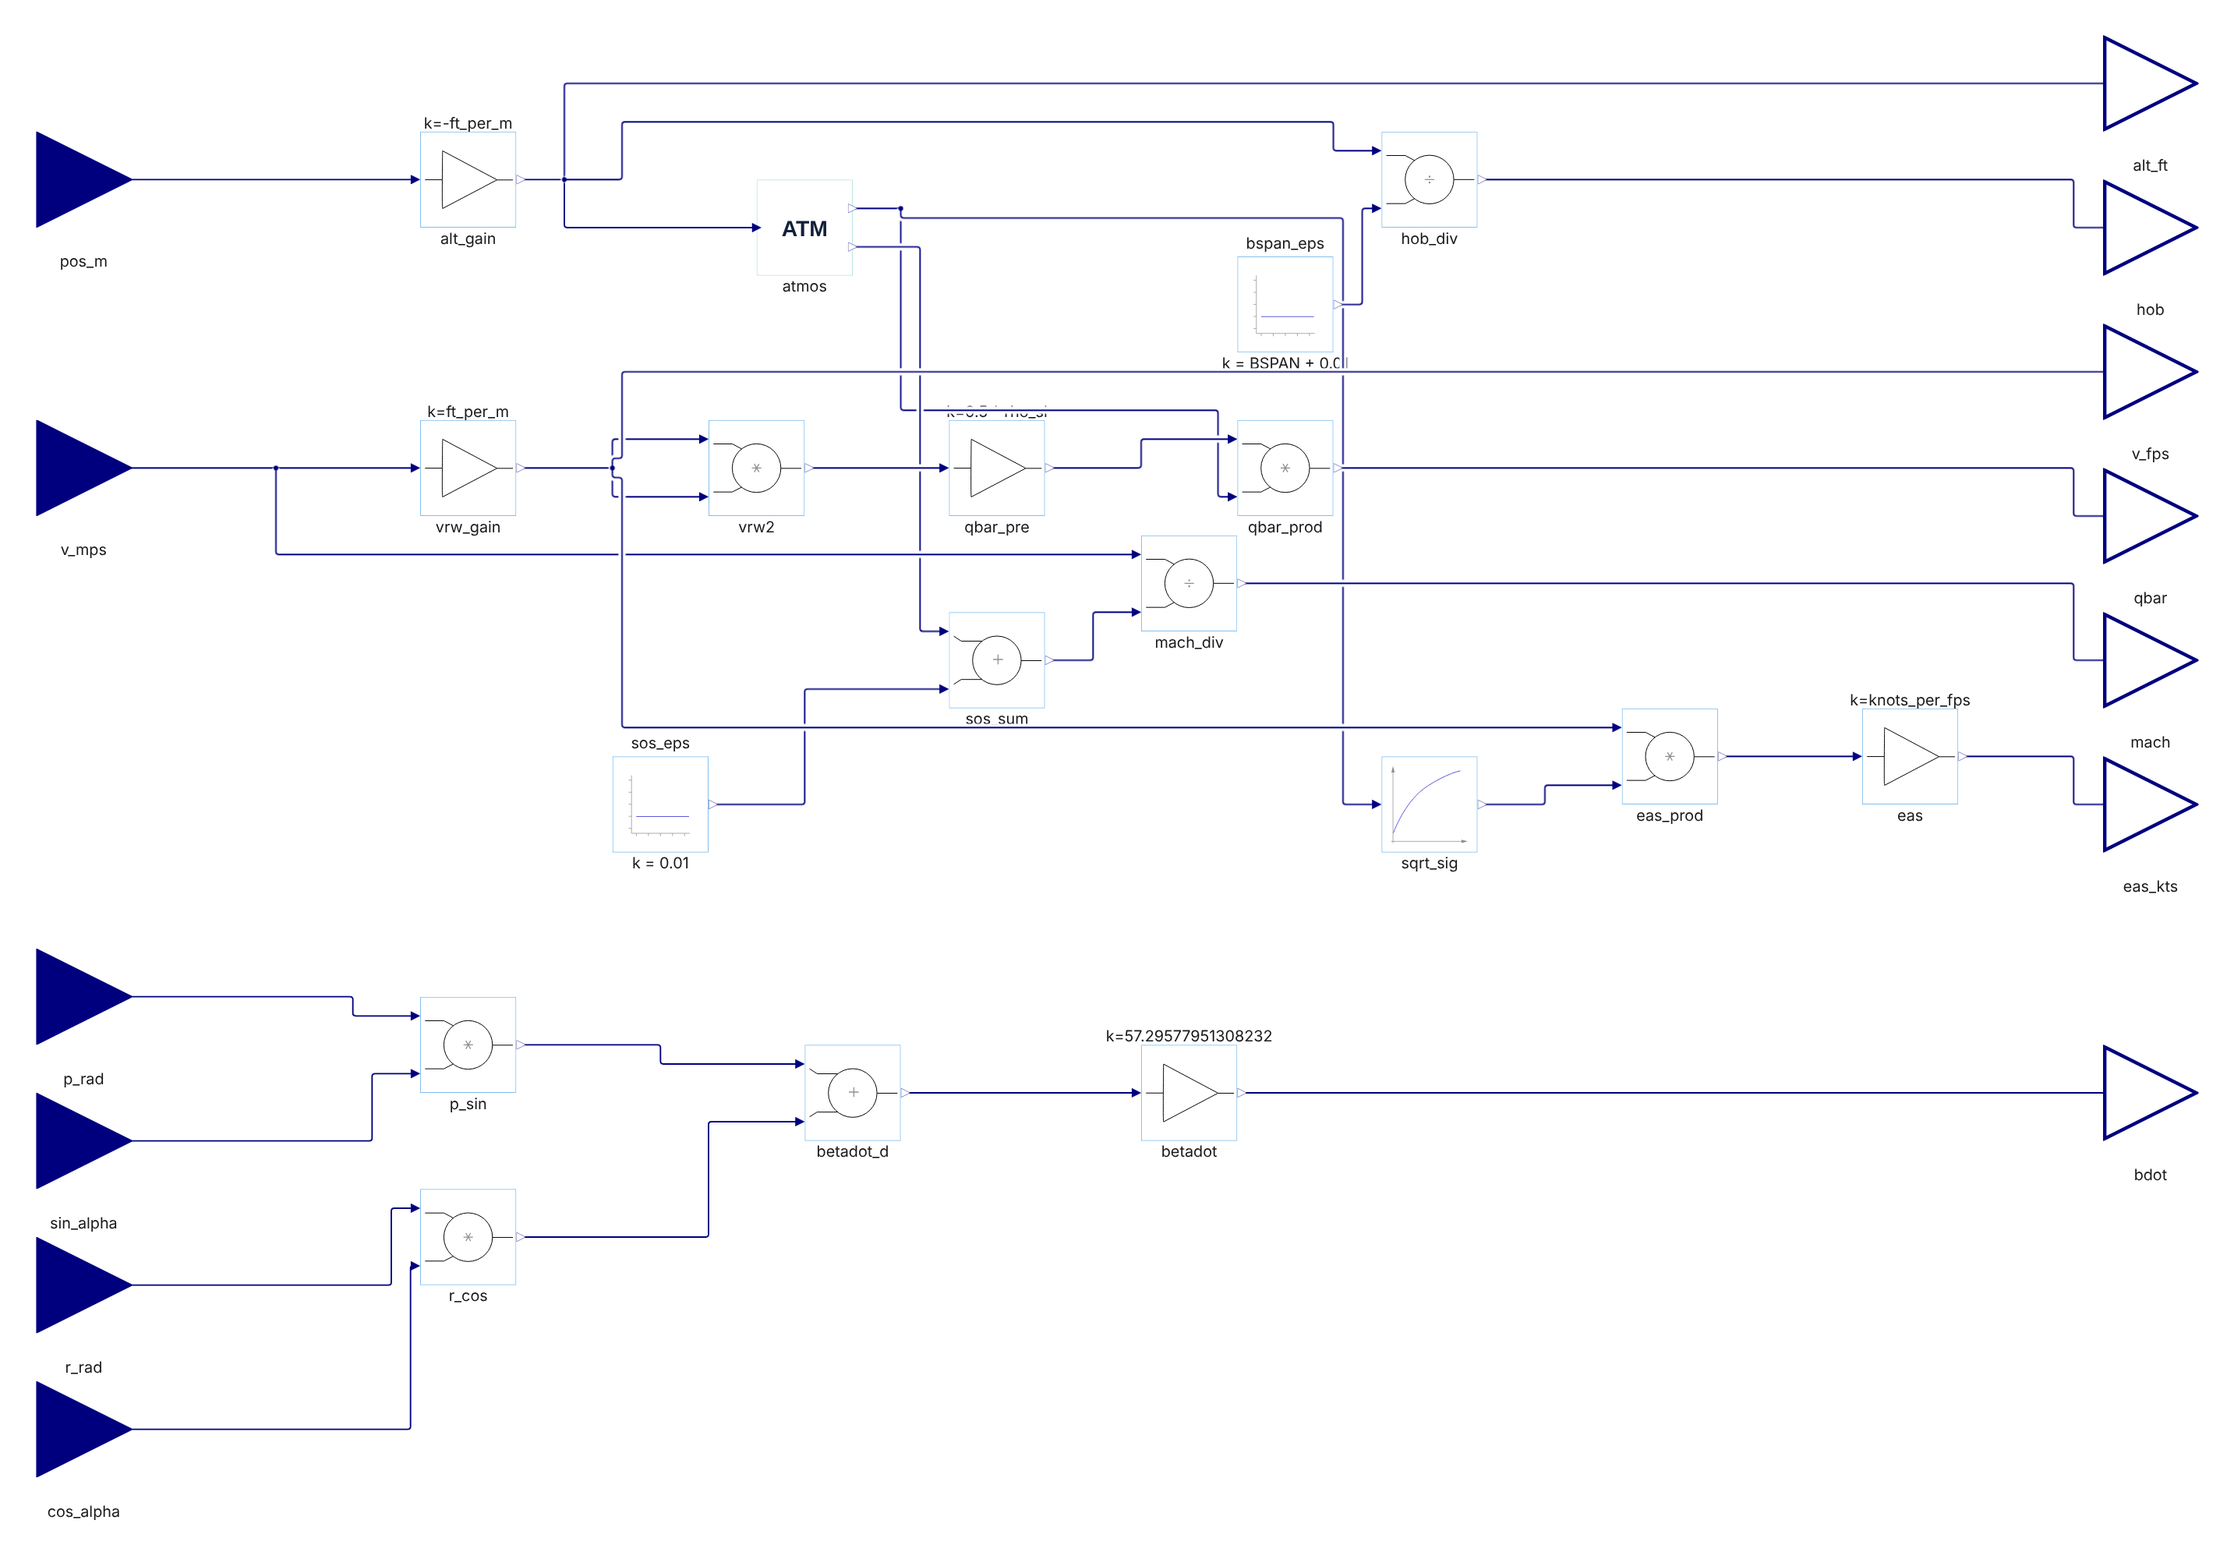
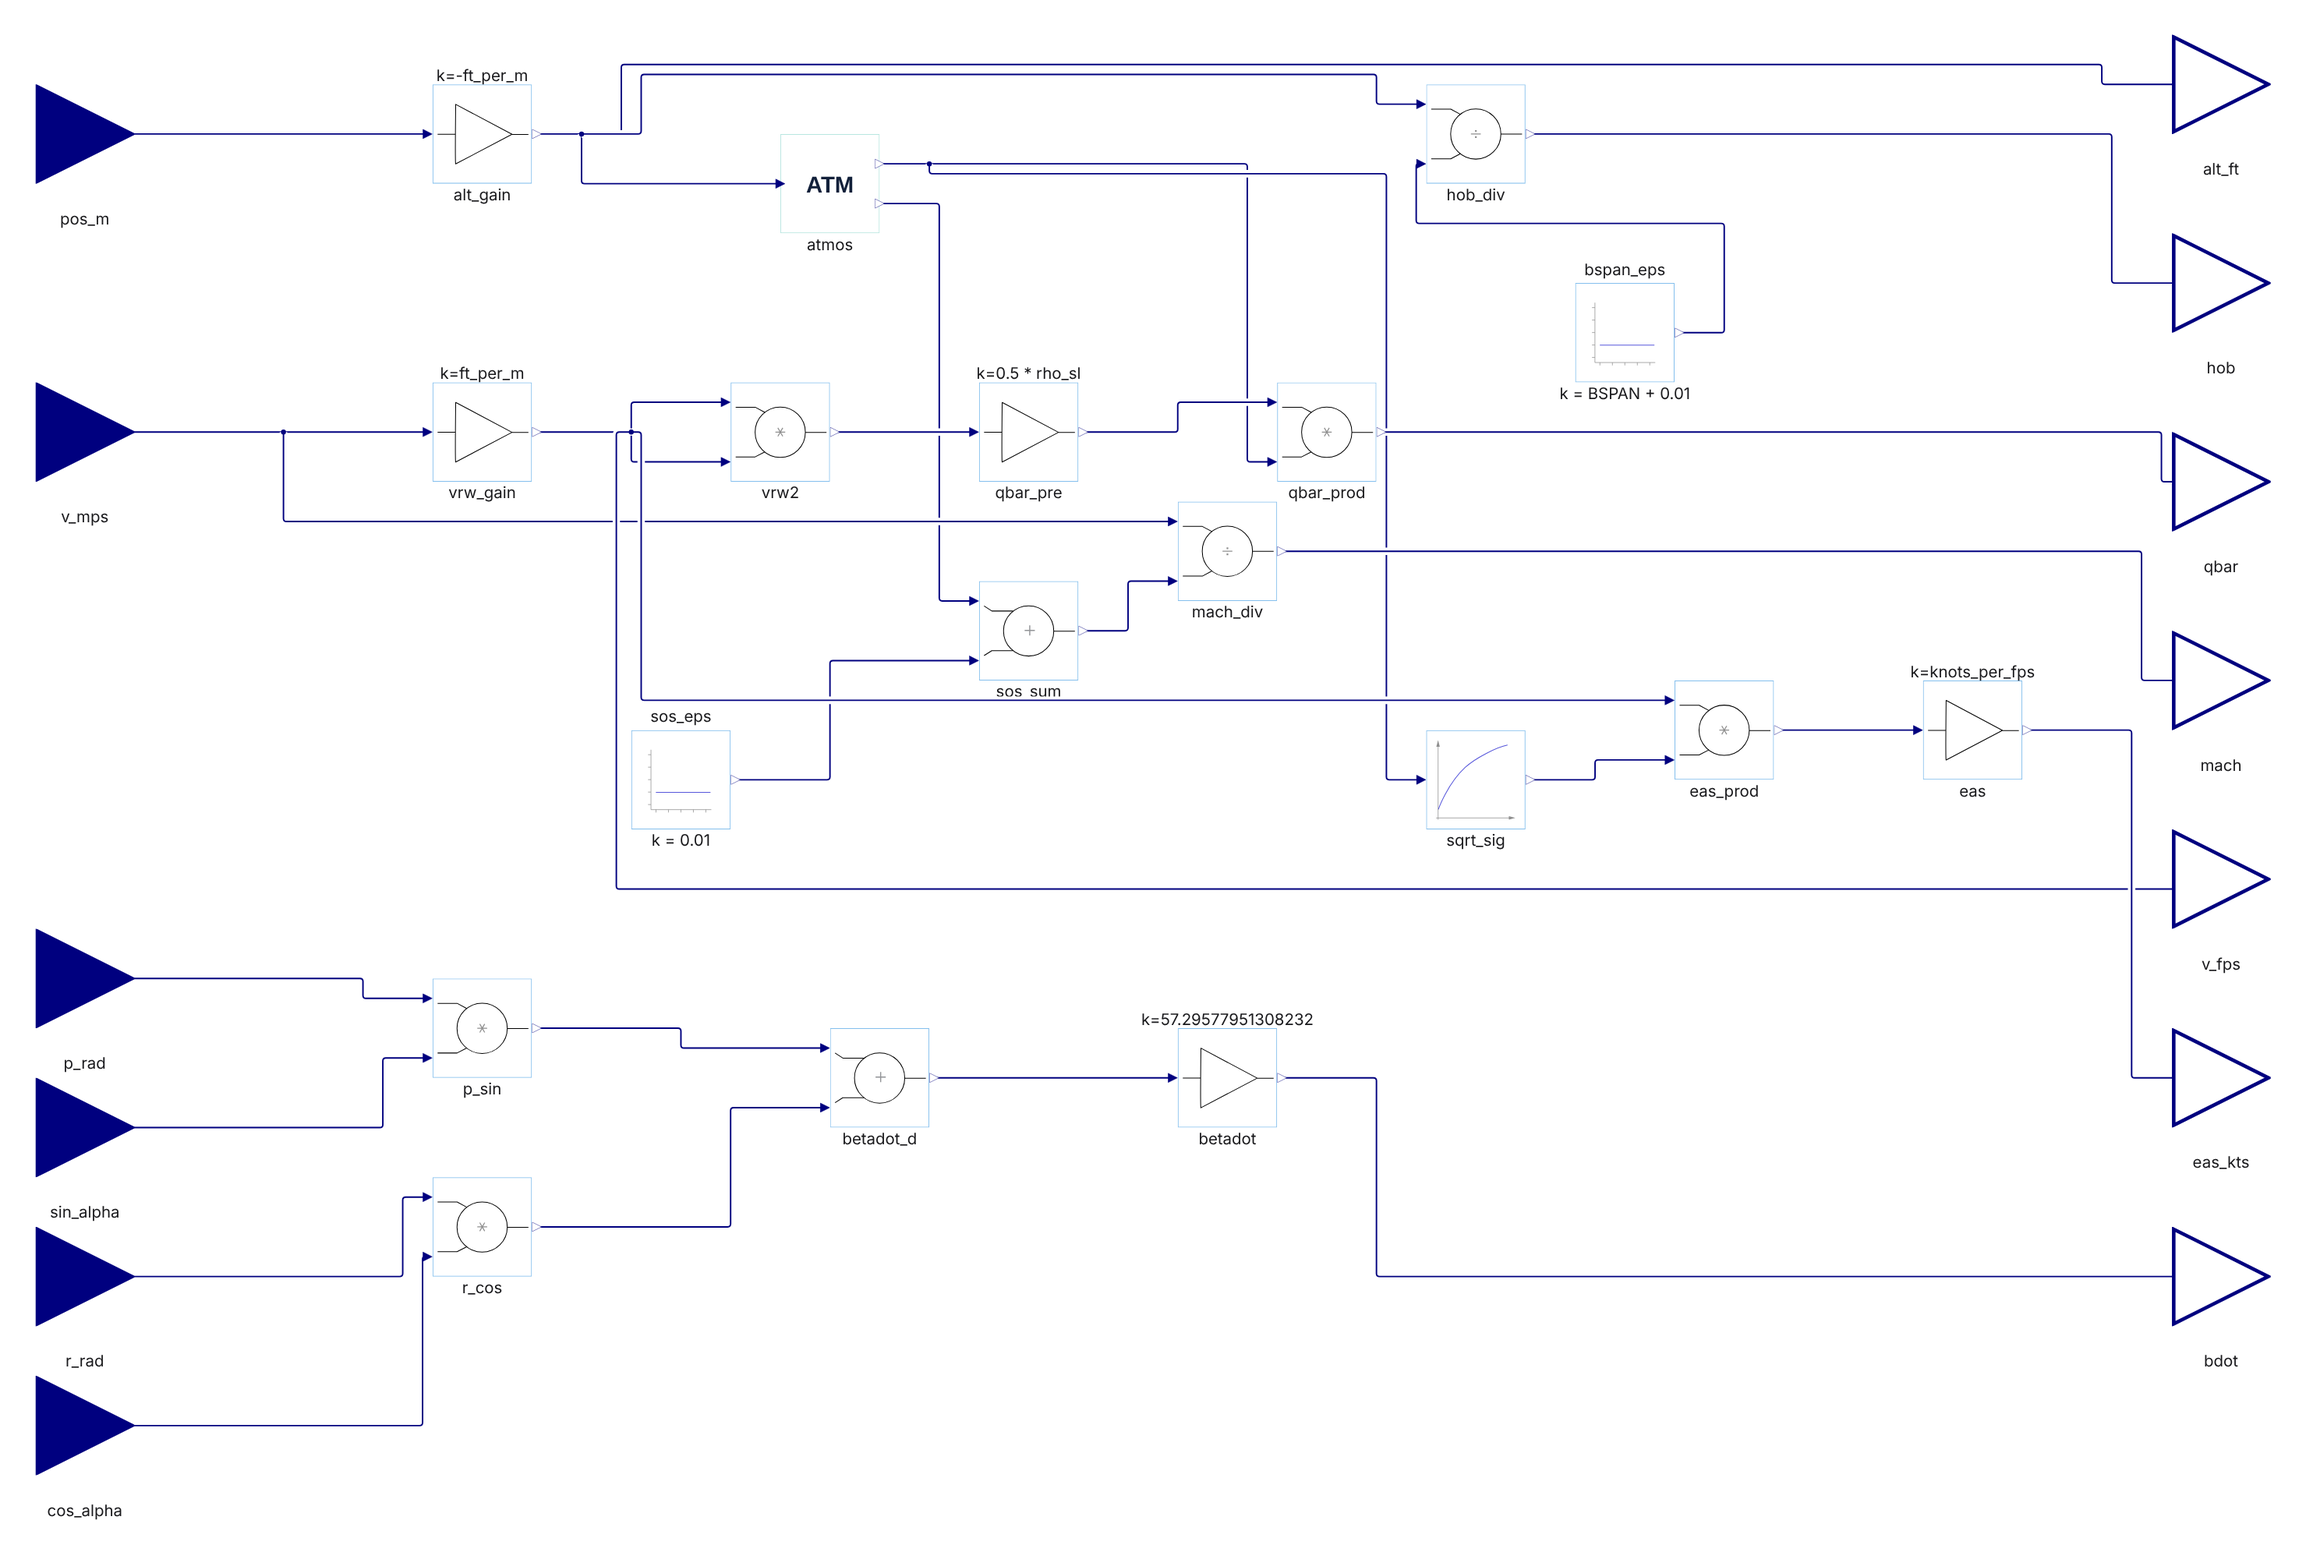
HL20Demo: refresh layout notes + Studio screenshots for final gate
Final layout-report over all 43 public diagrams: every non-crossing
defect class is zero (overlaps, through-block/port wires, diagonals,
unrouted connects, outer wires); the only remaining contacts are 6
structural label/wire hits on 5 diagrams (bottom-edge pins inside their
own name-label bands), documented in LAYOUT_NOTES.md with the full
before/after table and planarity-floor rationale. Screenshots for all
43 diagrams re-captured with dyad-ui-shot (Dyad 3.5.0).

Generated with [Devin](https://devin.ai)

Harness: devin
Model: swe-2
Factory-Task: 0b3b05c8-b155-4fe0-a2a9-110e36f83cc1
Agent-Harness: Devin 0.0.0 (ACP devin)
Agent-Model: configured:swe-2
Agent-Session: factory task 0b3b05c8-b155-4fe0-a2a9-110e36f83cc1 on m_e7dafdb55d0afc98861a124723a9e3fd (no session URL)

diff --git a/docs/layout/HL20Demo/LAYOUT_NOTES.md b/docs/layout/HL20Demo/LAYOUT_NOTES.md
@@ -28,7 +28,22 @@ Verified by:
   pass**, including TestQuatDirection, TestQuatRoundTrip, TestMixerAssist.
 - `layout-report` on all 43 diagrams: **zero** overlapping ports/blocks,
   zero wires through blocks or port glyphs, zero diagonal segments, zero
-  false junctions, zero unrouted connects.
+  false junctions, zero unrouted connects, zero wires routed outside the
+  diagram bounding box. Five diagrams carry a single structural
+  label/wire contact each (six total), documented below — a bottom-edge
+  pin sitting inside its own block's name-label band.
+
+In a second routing pass the densest diagrams were re-laid with explicit
+trunk-and-tap buses (single shared trunks with orthogonal tap drops), and
+the vehicle/system, quaternion and test diagrams were re-routed in the
+same style. Crossings fell further — HL20CL 69→25, HL20CD 69→25,
+HL20CY 81→26, HL20CM 77→29, HL20CN/CR 91→35, HL20Mixer 44→33,
+AeroForceBuilder 56→25, HL20Aero 82→59, AeroCLCD 45→45, AeroCYCN 61→46,
+AeroLongitudinal 46→46, AeroLateralCoeffs 60→55, QuatKinematics 65→55,
+QuatToDCM 62→25, FlightState 25→9, HL20Vehicle 128→119, HL20FullSystem
+73→62, TestControllers 23→1 (AeroCLCD and AeroLongitudinal were re-laid
+and held at 45 and 46) — with every non-crossing defect class at zero on
+all 43 diagrams.
 
 ## New component hierarchy
 
@@ -62,67 +77,87 @@ internal diagram laid out with the same conventions.
 
 | diagram | crossings before | crossings after | defects after¹ |
 |---|---:|---:|---|
-| HL20Demo.shared.HL20Aero | 500 | 82 | 0 |
-| HL20Demo.HL20Vehicle | 276 | 128 | 0 |
+| HL20Demo.shared.HL20Aero | 500 | 59 | 0 |
+| HL20Demo.HL20Vehicle | 276 | 119 | 2 lbl/wire |
 | HL20Demo.RigidBody6DOF | 222 | 3 | 0 |
 | HL20Demo.QuatToInertial | 195 | 3 | 0 |
-| HL20Demo.FlightState | 173 | 25 | 0 |
-| HL20Demo.QuatToBody | 163 | 2 | 0 |
-| HL20Demo.HL20FullSystem | 138 | 73 | 0 |
-| HL20Demo.shared.HL20CN | 122 | 91 | 0 |
-| HL20Demo.shared.HL20CR | 122 | 91 | 0 |
-| HL20Demo.shared.HL20CY | 113 | 81 | 0 |
-| HL20Demo.shared.HL20CM | 100 | 77 | 0 |
-| HL20Demo.shared.HL20CD | 97 | 69 | 0 |
-| HL20Demo.shared.HL20CL | 97 | 69 | 0 |
-| HL20Demo.AeroForceBuilder | 48 | 56 | 0 |
-| HL20Demo.HL20Mixer | 33 | 44 | 0 |
+| HL20Demo.FlightState | 173 | 9 | 0 |
+| HL20Demo.QuatToBody | 163 | 0 | 0 |
+| HL20Demo.HL20FullSystem | 138 | 62 | 1 lbl/wire |
+| HL20Demo.shared.HL20CN | 122 | 35 | 0 |
+| HL20Demo.shared.HL20CR | 122 | 35 | 0 |
+| HL20Demo.shared.HL20CY | 113 | 26 | 0 |
+| HL20Demo.shared.HL20CM | 100 | 29 | 0 |
+| HL20Demo.shared.HL20CD | 97 | 25 | 0 |
+| HL20Demo.shared.HL20CL | 97 | 25 | 0 |
+| HL20Demo.AeroForceBuilder | 48 | 25 | 0 |
+| HL20Demo.HL20Mixer | 33 | 33 | 0 |
 | HL20Demo.TestQuatRoundTrip | 12 | 0 | 0 |
 | HL20Demo.PitchControl | 10 | 12 | 0 |
 | HL20Demo.TestMixerAssist | 4 | 0 | 0 |
 | HL20Demo.TestQuatDirection | 4 | 0 | 0 |
-| HL20Demo.TestControllers | 3 | 23 | 0 |
+| HL20Demo.TestControllers | 3 | 1 | 1 lbl/wire |
 | HL20Demo.RollControl | 2 | 2 | 0 |
 | HL20Demo.YawControl | 2 | 1 | 0 |
 | HL20Demo.TestGravityOnly | 2 | 0 | 0 |
 | HL20Demo.SpeedControl | 0 | 1 | 0 |
 | HL20Demo.Atmosphere1976 | 0 | 0 | 0 |
-| HL20Demo.TestAeroPoint | 0 | 0 | 0 |
-| HL20Demo.TestAeroSweep | 0 | 0 | 0 |
+| HL20Demo.TestAeroPoint | 0 | 0 | 1 lbl/wire |
+| HL20Demo.TestAeroSweep | 0 | 0 | 1 lbl/wire |
 | HL20Demo.TestHL20FullSystem | 0 | 0 | 0 |
 | HL20Demo.TestHL20Subsonic | 0 | 0 | 0 |
-| HL20Demo.QuatKinematics | new | 65 | 0 |
-| HL20Demo.QuatToDCM | new | 62 | 0 |
-| HL20Demo.shared.AeroCYCN | new | 61 | 0 |
-| HL20Demo.shared.AeroLateralCoeffs | new | 60 | 0 |
-| HL20Demo.EulerAngles | new | 53 | 0 |
+| HL20Demo.QuatKinematics | new | 55 | 0 |
+| HL20Demo.QuatToDCM | new | 25 | 0 |
+| HL20Demo.shared.AeroCYCN | new | 46 | 0 |
+| HL20Demo.shared.AeroLateralCoeffs | new | 55 | 0 |
+| HL20Demo.EulerAngles | new | 19 | 0 |
 | HL20Demo.shared.AeroLongitudinal | new | 46 | 0 |
 | HL20Demo.shared.AeroCLCD | new | 45 | 0 |
-| HL20Demo.DCMMatVec | new | 29 | 0 |
+| HL20Demo.DCMMatVec | new | 15 | 0 |
 | HL20Demo.AeroAngles | new | 18 | 0 |
-| HL20Demo.AirData | new | 14 | 0 |
-| HL20Demo.RotDynamics | new | 11 | 0 |
+| HL20Demo.AirData | new | 10 | 0 |
+| HL20Demo.RotDynamics | new | 1 | 0 |
 | HL20Demo.TransDynamics | new | 0 | 0 |
 | HL20Demo.VehicleOutputs | new | 0 | 0 |
 | HL20Demo.shared.AeroAirData | new | 0 | 0 |
 
 ¹ defects = overlapping blocks + wires through blocks/ports + diagonal
-segments + false junctions + label overlaps + unrouted connects.
+segments + false junctions + label overlaps + unrouted connects +
+wires leaving the diagram bounds. The only non-zero defect class is
+label/wire.
+
+Remaining label/wire contacts (5 diagrams, 6 total) are structural: a
+bottom-edge pin sits directly above its own block's name label, so any
+orthogonal approach crosses the label band. Dodging every such pin
+requires braided edge-runs that add more crossings than they save;
+
+- **HL20Vehicle (2)** — `aero` and `forces` name labels.
+- **HL20FullSystem (1)** — the `pitch` controller name label.
+- **TestControllers, TestAeroPoint, TestAeroSweep (1 each)** — the
+  driven component's name label.
 
 Exceptions above the ~80-crossing target, one line each:
 
-- **HL20Vehicle (128)** — 46-pin strongly-connected loop; residual crossings
-  are concentrated where the 6-signal force/moment feedback bus descends
-  past the input-port wall; the bus lanes are ordered (deep dives first).
-- **HL20FullSystem (73)** — 16-signal feedback bus; feedback pins were moved
-  to controller icon bottom edges making the bus itself near-zero-crossing;
-  remaining crossings sit in the east-side output tap zone (the port-descent
-  wall is solid, any eastbound wire pays ~10X).
-- **HL20CN / HL20CR (91), HL20CY (81), HL20Aero (82)** — coefficient
-  fan-in diagrams: ~12 deflection buses share each table column; crossings
-  are the buses crossing each other's taps and are order-optimal for the
-  fixed pin order.
-- **HL20CM (77)** — same fan-in structure plus the pitch-damper chain.
+- **HL20Vehicle (119)** — 46-pin strongly-connected loop; residual
+  crossings concentrate at the mixer→vehicle command fan (a complete
+  comb: every column through the fan crosses 7–8 wires) and the
+  ALT_FT→NZ feedback descents across the riser fence. ~110 is the
+  practical floor without moving blocks.
+- **HL20FullSystem (62)** — DLEDEG's mixer→pitch wire pays ~13X crossing
+  the command comb; ALT_FT's riser crosses all 10 feedback risers (~11X);
+  the `pitch` label contact is structural as above.
+- **HL20Aero (59), AeroLateralCoeffs (55), QuatKinematics (55),
+  AeroLongitudinal/AeroCYCN (46), AeroCLCD (45), HL20CN/CR (35)** —
+  same-order coefficient/product fans: a planar floor ≈ C(n,2) per fan
+  (each tap must cross every other tap's drop when source and sink
+  orders disagree); the layouts sit at or near that floor.
+- **HL20Mixer (33), QuatToDCM (25)** — residual fan-in crossings at the
+  planarity floor for their fixed pin orders.
+
+`AeroPointAero` (the equation-level component embedded in
+`TestAeroPoint.dyad` for reference comparison) is a helper component, not
+one of the 43 public diagrams; it is excluded from the gate count and
+the screenshot set.
 
 ## Review items fixed in this pass
 
